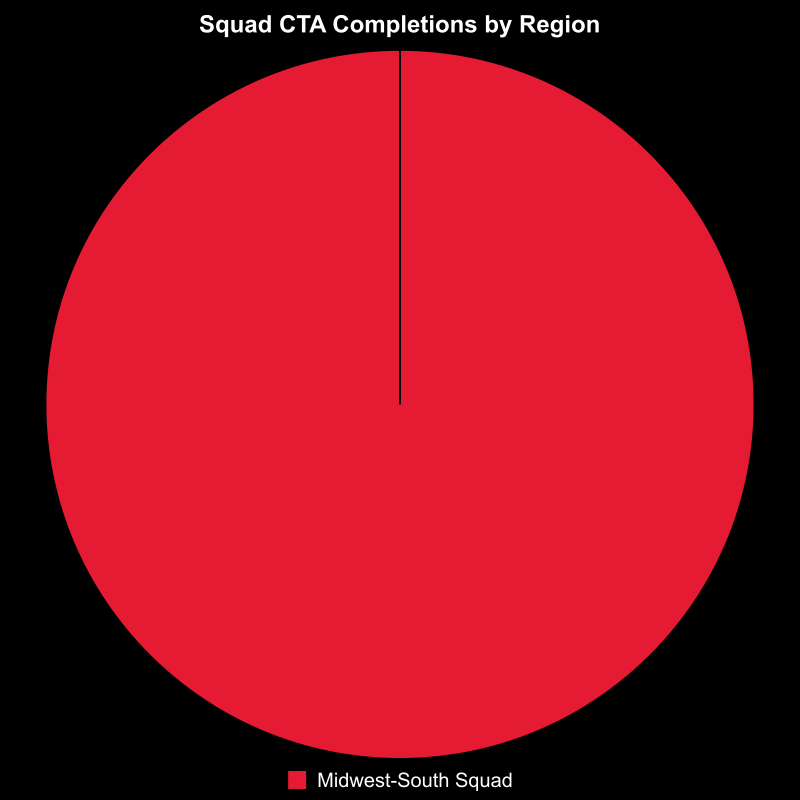
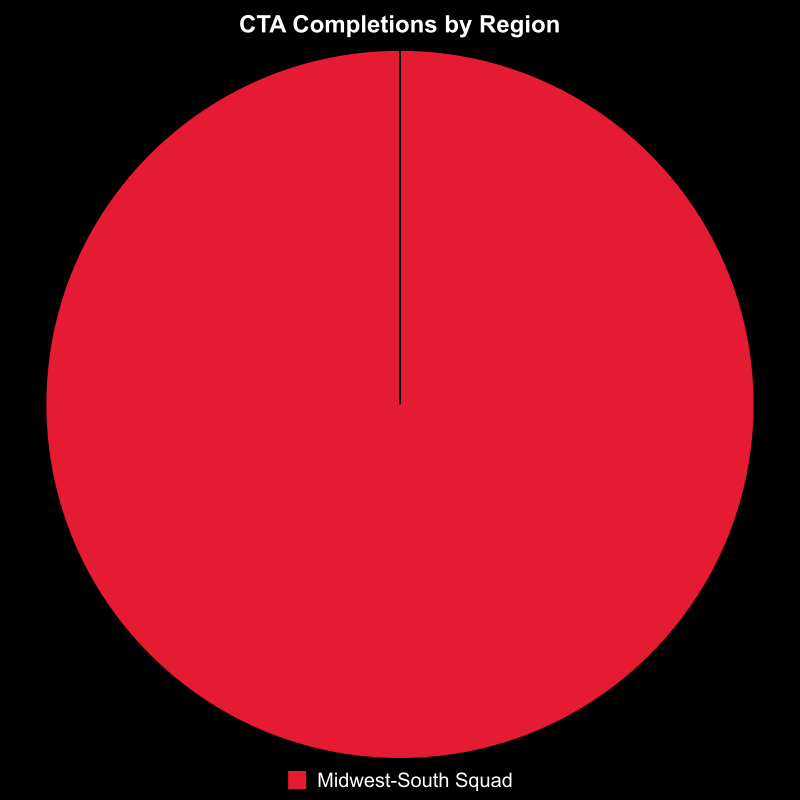
clean up code, set collection duration to 1hr, silence notifications

Changed region(s): [[0.25, 0.0, 0.75, 0.0625]]

diff --git a/apps/discord-bot/src/triggers/cta-post.ts b/apps/discord-bot/src/triggers/cta-post.ts
@@ -1,5 +1,5 @@
 /* eslint-disable no-console */
-import { ChannelType, ThreadAutoArchiveDuration, type Message } from "discord.js";
+import { ChannelType, type PublicThreadChannel, ThreadAutoArchiveDuration, type Message, MessageFlags } from "discord.js";
 import { type Trigger } from "./trigger";
 import { type EventData } from "../models/internal-models";
 import { BarController, Colors, BarElement, CategoryScale, Chart, LinearScale, PieController, ArcElement, Legend, Title } from "chart.js";
@@ -7,6 +7,14 @@ import { Canvas } from "canvas";
 import { writeFile } from "node:fs";
 
 const channelName = "call-to-action";
+const regionRoles = [
+    'Midwest-South Squad',
+    'Northeast Squad',
+    'West Coast Squad'
+]
+const finishedEmoji = '✅'
+const roleReactions: { [reactId: string]: string[] } = {};
+const oneHour = 3_600_000
 
 export class CTAPostTrigger implements Trigger {
     requireGuild: boolean;
@@ -26,78 +34,40 @@ export class CTAPostTrigger implements Trigger {
     }
 
     public async execute(msg: Message, data: EventData): Promise<void> {
-
-        /*
-        TODO
-            [X] Create Public Thread
-            [X] Async read reactions to message
-                [X] Get users and roles from reactions
-            [X] Create chart from reactions sorted by role
-        */
-        const regionRoles = [
-            'Midwest-South Squad',
-            'Northeast Squad',
-            'West Coast Squad'
-        ]
-
-        const finishedEmoji = '✅'
-
         if (msg.channel.type === ChannelType.GuildText) {
-            const roleReactions: { [reactId: string]: string[] } = {};
-            const collector = msg.createReactionCollector({ time: 15_000 });
-
-            collector.on('collect', async (reaction, user) => {
-                const member = msg.guild?.members.fetch(user.id)
-                if (member != undefined) {
-
-                    console.log(`Got ${reaction.emoji.name} from ${(await member).displayName}`)
-
-                    if (reaction.emoji.name === finishedEmoji.toString()) {
-
-                        const memberRoles = (await member).roles.cache;
-                        const role = memberRoles.filter(r => regionRoles.includes(r.name));
-                        const memberRegionRole = role.first()?.name;
-
-                        if (memberRegionRole != undefined) {
-                            if (!roleReactions[memberRegionRole]) {
-                                roleReactions[memberRegionRole] = [];
-                            }
-                            roleReactions[memberRegionRole]?.push(user.id);
-                            console.log(`${role} member, ${user.displayName}`);
-                        }
-
-                        console.log(`${Object.entries(roleReactions)}`)
-                    }
-                }
-            });
-
-            collector.on('end', collected => {
-                console.log(`Collected ${collected.size} reactions. Thank you for participating.`);
-                const thread = msg.startThread({
-                    name: 'CTA Thread',
-                    autoArchiveDuration: ThreadAutoArchiveDuration.OneWeek,
-                    reason: 'Tracking CTA participation.'
-                });
-
-                const pngBuffer = this.createChart(roleReactions).toBuffer('image/png');
-
-                writeFile('./misc/tmp/reaction_summary.png', pngBuffer, (err) => {
-                    if (err) throw err;
-                    console.log('Chart saved');
-                });
-
-                (async () => {
-                    const threadChannel = await thread;
-                    await threadChannel.send({ files: ["./misc/tmp/reaction_summary.png"] });
-                })();
-            });
+            const thread = await this.createCTAThread(msg)
+            if (thread) {
+                this.startCTAReactionCollector(msg, thread)
+            }
 
             console.log(`Data: ${data}`)
             return
         }
     }
 
-    private createChart(roleReactions: object): Canvas {
+    private async createCTAThread(msg: Message): Promise<PublicThreadChannel | undefined> {
+
+        if (msg.channel.type === ChannelType.GuildText) {
+            const thread = msg.startThread({
+                name: 'CTA Completion by Region',
+                autoArchiveDuration: ThreadAutoArchiveDuration.OneWeek,
+                reason: 'Tracking CTA participation.',
+            });
+
+            const threadChannel = await thread;
+            threadChannel.send({
+                content: `Mark your completion of the CTA by reacting with ${finishedEmoji}.\n\n A chart will be posted in an hour, and updated every hour until the thread is archived, showing the number of completions per region.`,
+                flags: [MessageFlags.SuppressNotifications]
+            });
+            msg.react(finishedEmoji)
+
+            return thread
+        }
+
+        return undefined
+    }
+
+    private createChart(rr: object): Canvas {
 
         Chart.register(
             CategoryScale,
@@ -131,11 +101,11 @@ export class CTAPostTrigger implements Trigger {
         const _ = new Chart(canvas, {
             type: 'pie',
             data: {
-                labels: Object.keys(roleReactions),
+                labels: Object.keys(rr),
                 datasets: [{
-                    label: "Squad CTA Completions by Region",
-                    // roleReactions is a map of <string, string[]>
-                    data: Object.values(roleReactions).map(role => role.length),
+                    label: "CTA Completions by Region",
+                    // rr is a map of <string, string[]>
+                    data: Object.values(rr).map(role => role.length),
                     backgroundColor: [
                         'rgb(228, 27, 50)',
                         'rgb(255, 255, 255)',
@@ -164,7 +134,7 @@ export class CTAPostTrigger implements Trigger {
                     },
                     title: {
                         display: true,
-                        text: "Squad CTA Completions by Region",
+                        text: "CTA Completions by Region",
                         font: {
                             size: 24,
                         }
@@ -175,5 +145,65 @@ export class CTAPostTrigger implements Trigger {
         });
 
         return canvas
+    }
+
+    // start a reaction collector on the given message
+    private async startCTAReactionCollector(msg: Message, thread: PublicThreadChannel): Promise<void> {
+        const filter = (reaction, user) => reaction.emoji.name === finishedEmoji && user.id != msg.client.user.id
+        const collector = msg.createReactionCollector({ filter, time: oneHour });
+
+        collector.on('collect', async (reaction, user) => {
+            const member = msg.guild?.members.fetch(user.id)
+            if (member != undefined) {
+
+                console.log(`Got ${reaction.emoji.name} from ${(await member).displayName}`)
+
+                const memberRoles = (await member).roles.cache;
+                const role = memberRoles.filter(r => regionRoles.includes(r.name));
+                const memberRegionRole = role.first()?.name;
+
+                if (memberRegionRole != undefined) {
+                    if (!roleReactions[memberRegionRole]) {
+                        roleReactions[memberRegionRole] = [];
+                    }
+                    if (!roleReactions[memberRegionRole]?.includes(user.id)) {
+                        roleReactions[memberRegionRole]?.push(user.id);
+                        console.log(`Adding ${role.first()?.name} member, ${user.displayName}`);
+                    }
+                }
+
+                console.log(`${Object.entries(roleReactions)}`)
+            }
+        });
+
+        collector.on('end', collected => {
+            console.log(`Collected ${collected.size} reactions.`);
+
+            const pngBuffer = this.createChart(roleReactions).toBuffer('image/png');
+
+            writeFile('./misc/tmp/reaction_summary.png', pngBuffer, (err) => {
+                if (err) throw err;
+            });
+
+            (async () => {
+                const threadChannel = await thread;
+                if (!threadChannel.archived) {
+                    await this.deleteLastChart(threadChannel);
+                    await threadChannel.send({
+                        files: ["./misc/tmp/reaction_summary.png"],
+                        flags: [MessageFlags.SuppressNotifications]
+                    });
+                    this.startCTAReactionCollector(msg, thread);
+                }
+            })();
+        });
+    }
+
+    private async deleteLastChart(tc: PublicThreadChannel): Promise<void> {
+        const threadMessages = await tc.messages.fetch({ limit: 1 });
+        const latest = threadMessages.first();
+        if (latest && latest.attachments.size > 0) {
+            await latest.delete();
+        }
     }
 }
